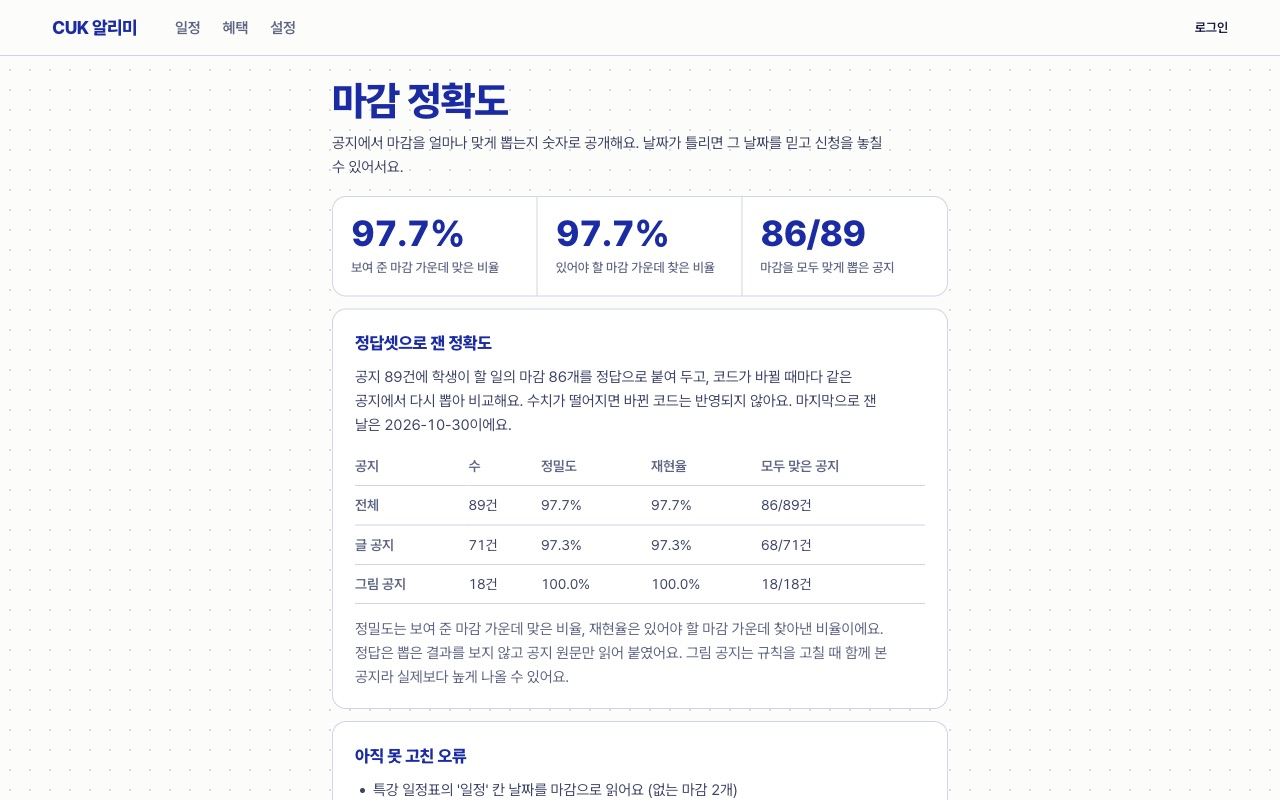
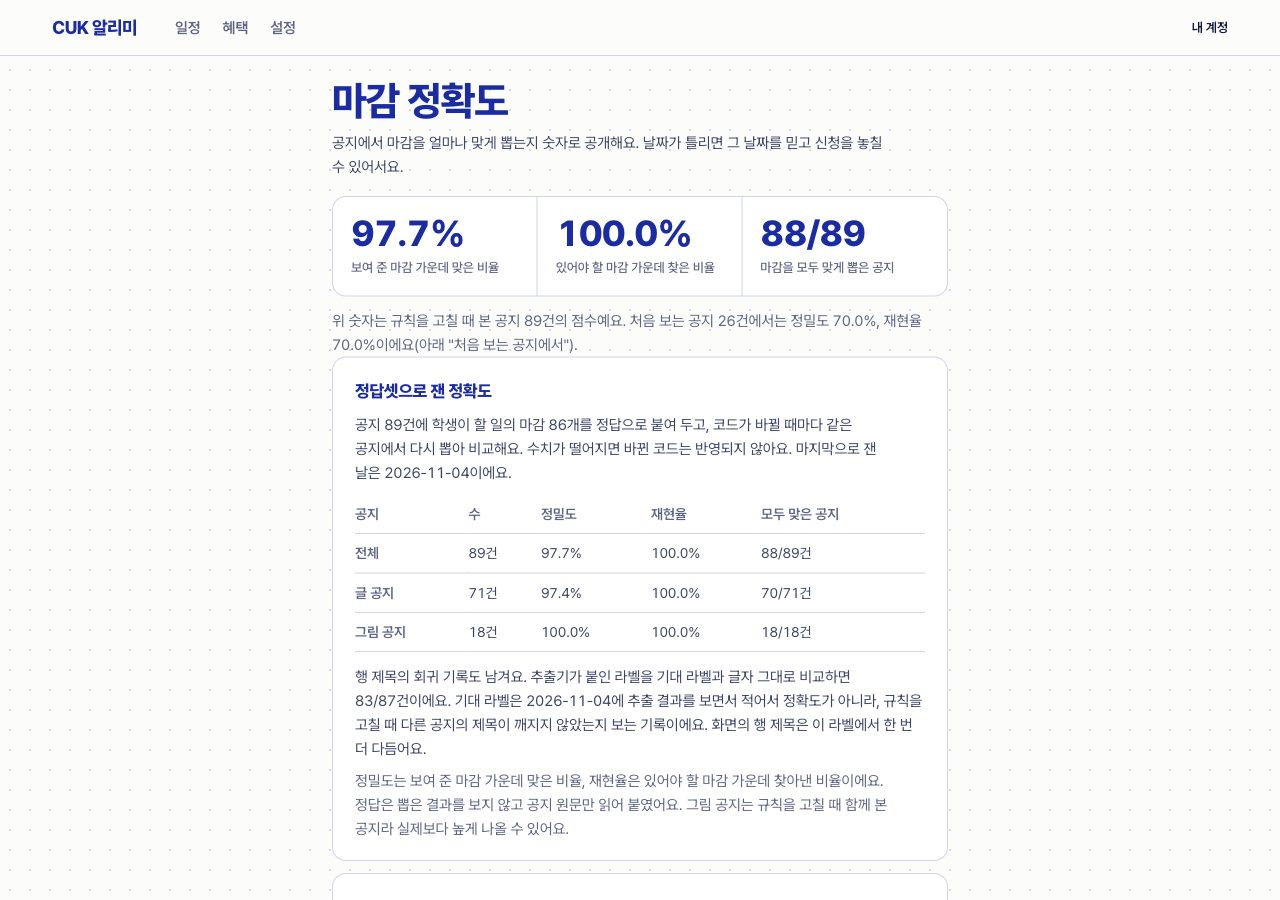
docs: README 화면을 지금 화면과 데모 GIF로 바꾸고, 품질 페이지 머리 숫자 밑에 처음 보는 공지 점수를 함께 적는다

diff --git a/web/src/app/quality/page.tsx b/web/src/app/quality/page.tsx
@@ -70,6 +70,11 @@ export default function QualityPage() {
               <span>마감을 모두 맞게 뽑은 공지</span>
             </div>
           </div>
+          <p className="muted">
+            위 숫자는 규칙을 고칠 때 본 공지 {q.backtest.notices}건의 점수예요.
+            {q.fresh &&
+              ` 처음 보는 공지 ${q.fresh.notices}건에서는 정밀도 ${percent(q.fresh.precision)}, 재현율 ${percent(q.fresh.recall)}예요(아래 "처음 보는 공지에서").`}
+          </p>
 
           <section className="panel">
             <h2>정답셋으로 잰 정확도</h2>

diff --git a/README.md b/README.md
@@ -22,11 +22,17 @@
 
 아직 배포 전이고 사용자는 0명입니다. 주소가 생기면 여기에 적습니다. 배포를 막는 것은 학교 robots.txt 문의(초안 `docs/robots-inquiry.md`)와 실제 기기에서의 푸시 수신 확인이고, 둘이 정해지기 전에는 AI 키와 푸시 키 없이 올립니다.
 
-![이번 주 마감을 8칸으로 펼친 홈](docs/images/home.jpg)
+![주간·월간 보기를 오가며 날짜를 고르고 체크하는 데모](docs/images/demo.gif)
 
-| 휴대폰 | 공개 정확도 페이지 |
+| 주간 플래너 | 월 보기 |
 |---|---|
-| <img src="docs/images/mobile.jpg" alt="휴대폰 홈" width="280"> | <img src="docs/images/quality.jpg" alt="마감 정확도 페이지" width="520"> |
+| <img src="docs/images/home.jpg" alt="이번 주와 다음 주를 8칸으로 펼친 홈" width="440"> | <img src="docs/images/month.jpg" alt="일요일에 시작하는 월 달력" width="440"> |
+
+| 휴대폰 | 관심 주제 | 공개 정확도 페이지 |
+|---|---|---|
+| <img src="docs/images/mobile.jpg" alt="휴대폰 홈" width="220"> | <img src="docs/images/settings-topics.jpg" alt="설정의 관심 있는 일 고르기" width="300"> | <img src="docs/images/quality.jpg" alt="마감 정확도 페이지" width="300"> |
+
+화면은 시험 계정(경영학과 2학년 2학기, 경기도 수원시, 기본 관심 주제)으로 찍었습니다.
 
 ## 핵심 결정
 
